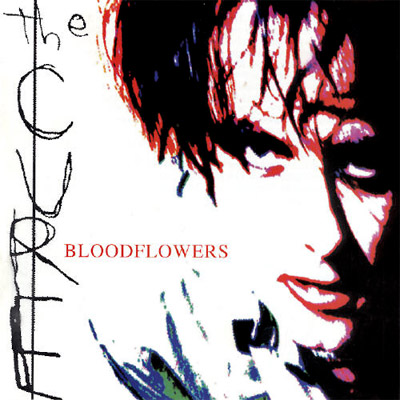
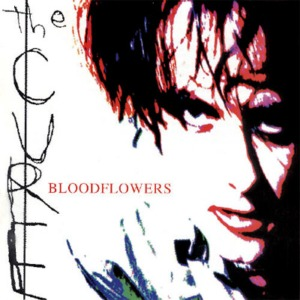
Update all image files

diff --git a/assets/scripts/global.js b/assets/scripts/global.js
@@ -568,10 +568,7 @@ const buildAlbumCard = (artistName, album) => {
   console.log(`Card being built for ${album.title}`);
   // Create image SRC:
   const imgSrc = setRelativePath(`assets/images/music/${kebabCase(artistName)}/${kebabCase(album)}.jpg`);
-  // Fix all my file names to follow this naming convention. RESUME: NEW ORDER
-  // Resize every file to 300px x 300px.
-  // Convert everything to .jpg that isn't already.
-  // Minimize them all.
+  // Minimize all images.
   // Create the Album Card to store everything in:
   const albumCard = `<div class="row">
       <div class="album-card">
